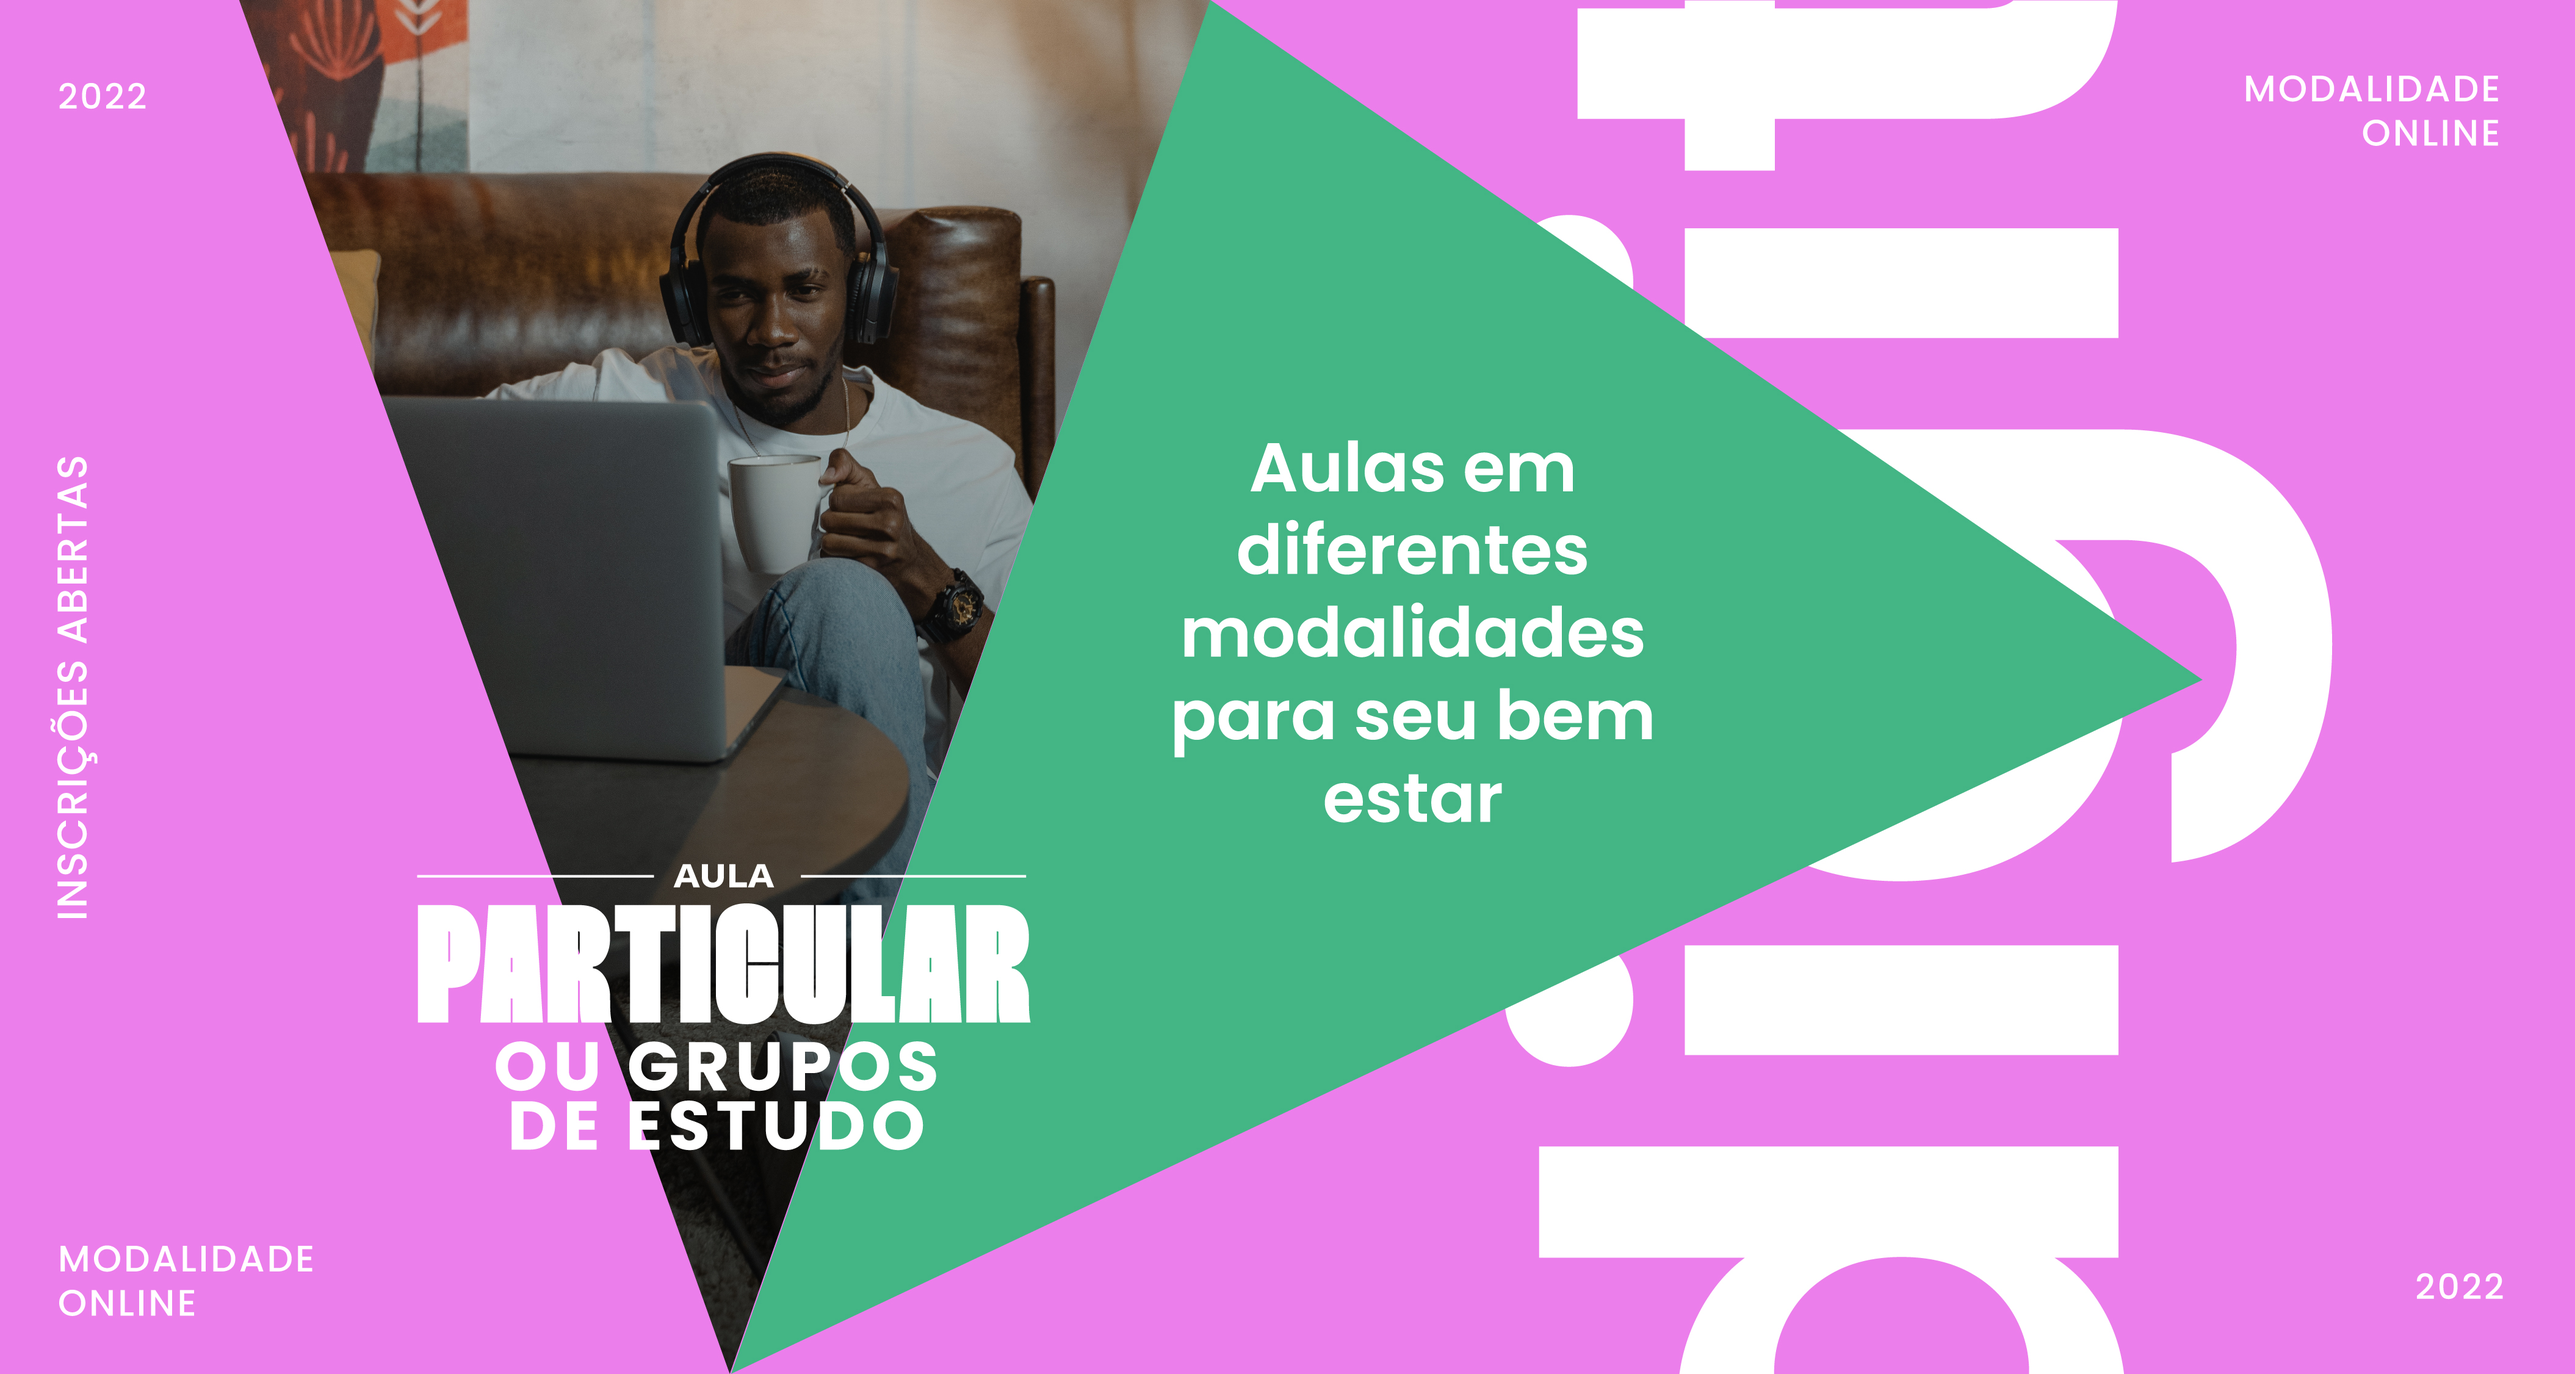
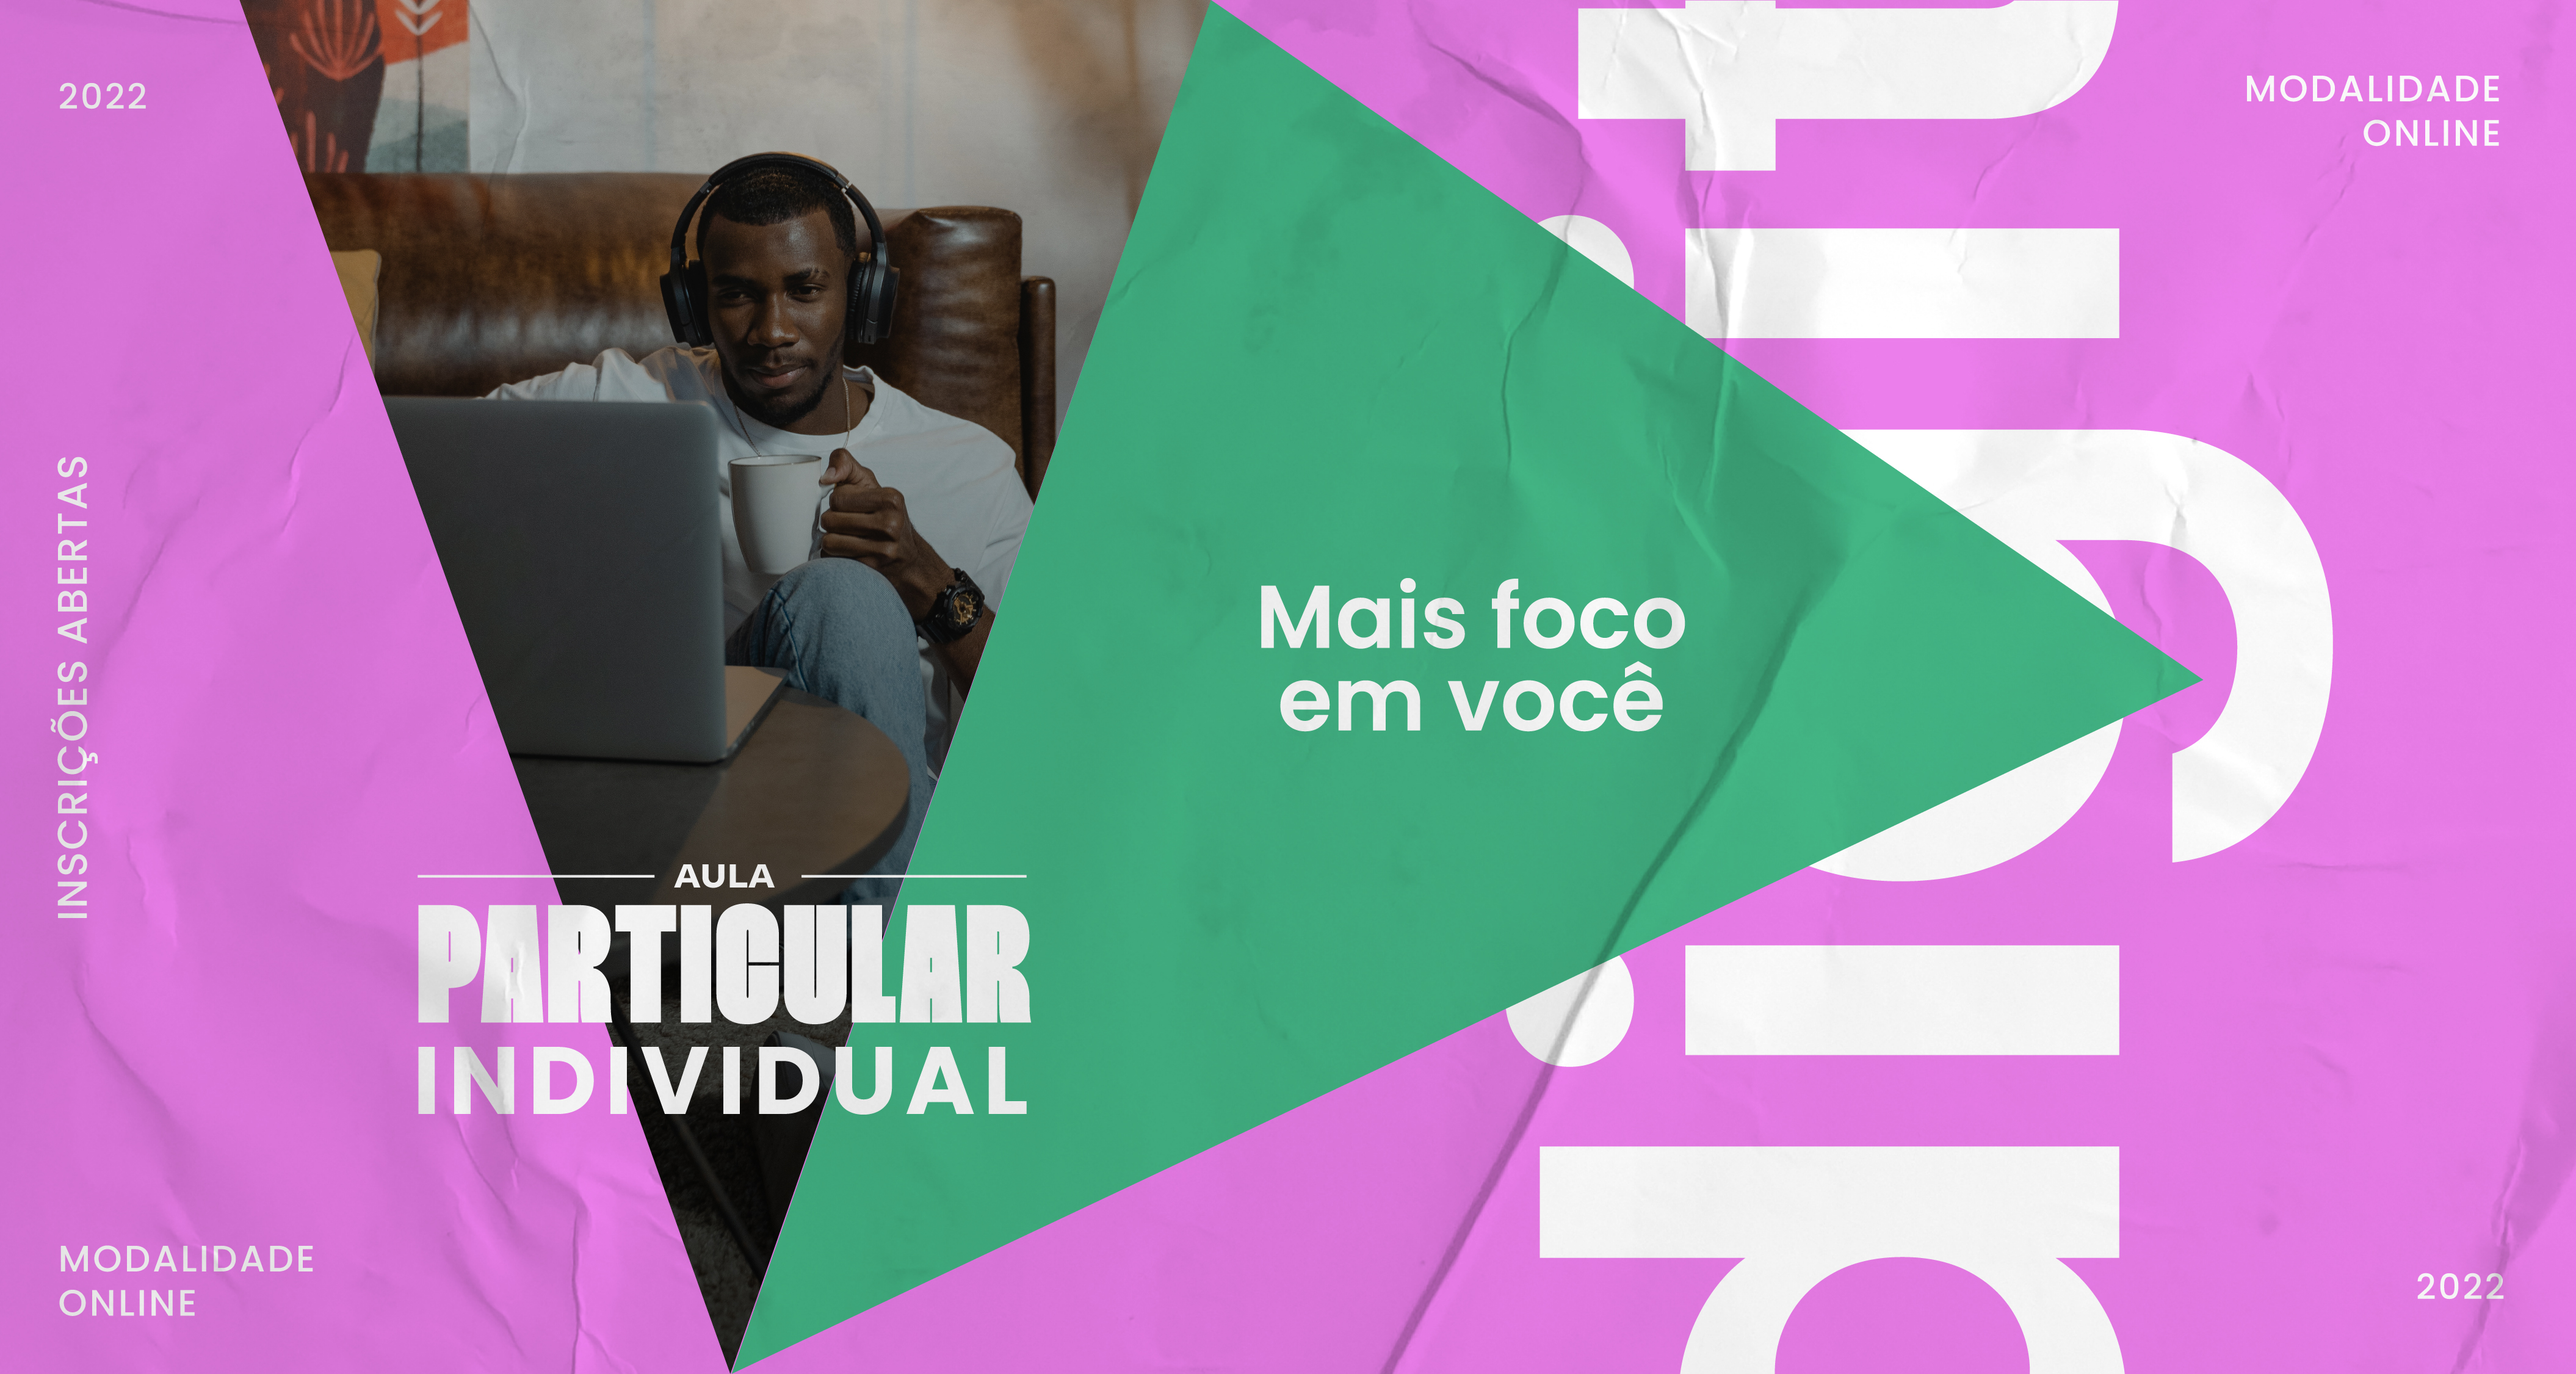
Correções após a adição de um novo curso

diff --git a/aulas_ou_grupos.html b/aulas_ou_grupos.html
@@ -58,7 +58,7 @@
     <!-- Principal description of the course -->
     <div class="course-description">
         <div class="course-description-info">
-            <h1>Aulas particulares ou grupos de inglês </h1>
+            <h1>Aulas particulares</h1>
             <div class="course-description-details">
                 <p>Duração: <span>Conforme necessidade</span></p>
                 <p>Modalidade: <span>Online</span></p>
@@ -82,9 +82,9 @@
             <p class="course-appeal-call-quotes"><i class="fa fa-quote-left"></i></p>
             <p class="container-70vw">
                 Você não acredita nas metodologias convencionais dos cursos de idiomas?<br>
-                Sente que precisa de aulas particulares ou em grupo que fujam da lógica convencional?<br>
+                Sente que precisa de aulas particulares que fujam da lógica convencional?<br>
                 <br>
-                <strong>Então escolha a melhor modalidade para você!</strong>
+                <strong>É só marcar um horário comigo.</strong>
             </p>
         </div>
     </div>
@@ -94,16 +94,13 @@
         <img src="./images/Imagens dos cursos - Aulas 2.jpg">
         <div class="course-aditional-info-text">
             <h2>
-                Como funcionam os grupos <span>de inglês</span>?
+                Como funcionam as aulas<br><span>particulares</span> e individuais?
             </h2>
             <p>
-                Os grupos de inglês tem foco em comunicação, principalmente na fala. Misturando técnicas teatrais com metodologia comunicativa do idioma, os grupos são para quem gostaria de aprender inglês de uma maneira diferente dos cursos oferecidos pelas escolas de idiomas.
+                As aulas particulares funcionam de acordo com a necessidade de cada um.<br>
+                Algumas pessoas tem mais problemas com tempos verbais, outros com gramática e ainda outros com a conversação. Conhecendo melhor e alune, faço uma avaliação específica que guia a construção da minha aula para aqueles problemas específicos que precisamos enfrentar.
             </p>
-            <p> 
-                As aulas são online e gravadas, assim ninguém perde nenhuma aula.
-                Se você quer fazer parte de um novo grupo de aprendizado com uma turma online, você pode garantir a sua vaga preenchendo esse formulário. A turma só será iniciada quando tivermos 8 alunos matriculados.
-            </p>
-            <p><a class="btn btn-green" href="https://my.forms.app/tuanetainbessi/turmas-teachertuane">formulário aqui</a></p>
+            <p><a class="btn btn-green" href="#pricing-section-classes">preços e horários</a></p>
         </div>
     </div>
 
@@ -122,14 +119,14 @@
                 </div>
                 <div class="tab">
                     <input type="checkbox" id="chck2">
-                    <label class="tab-label" for="chck2">Quantas vezes na semana devo fazer as aulas particulares ou os grupos?</label>
+                    <label class="tab-label" for="chck2">Quantas vezes na semana devo fazer as aulas particulares?</label>
                     <div class="tab-content">
                       Apenas uma vez por semana. Esse é o tempo que considero ideal para que tenhamos uma curva de aprendizagem seguida do descanso necessário para fixar o que aprendemos.
                     </div>
                   </div>
                 <div class="tab">
                   <input type="checkbox" id="chck3">
-                  <label class="tab-label" for="chck3">É possível solicitar atestado das duas modalidades?</label>
+                  <label class="tab-label" for="chck3">É possível solicitar atestado?</label>
                   <div class="tab-content">
                     Pode ser requerido atestado de participação a partir de dois meses de aulas caso seja necessário.
                   </div>
@@ -179,16 +176,11 @@
             <div class="pricing-info pricing-grupos">
                 <i class="fa-solid fa-users-line"></i>
                 <h2 class="pricing-header">Grupos de Inglês</h2>
-                <p>O tempo de 1hr e 30 min pode
-                ser dividido em mais de uma aula semanal.</p>
-                <div class="pricing-groups-options">
-                        <span class="pricing-span">1hr/dia</span> <p>R$ 90,00</p>
-                        <span class="pricing-span">1hr/noite</span> <p>R$ 110,00</p>
-                        <span class="pricing-span">1:30 dia</span> <p>R$ 130,00</p>
-                        <span class="pricing-span">1:30/noite</span> <p>R$ 150,00</p>
-                </div>
+                <p>Aulas em grupo são ideais para conversação e desenvolvimento da língua, ainda mais com meu ensino com técnicas de teatro. Se você se sente segure, recomendo fortemente que dê uma olhada na minha modalidade de curso em grupo!</p>
+                <p>Demonstre interesse no nosso formulário para abrirmos novas turmas ou saiba mais na nossa página do curso "English with Theater".</p>
                 <div class="pricing-buttons">
                     <a href="https://my.forms.app/tuanetainbessi/turmas-teachertuane" class="btn btn-green">Formulário</a>
+                    <a href="./english_with_theater.html" class="btn btn-blackline">Saiba Mais</a>
                 </div>
             </div>
         </div>

diff --git a/cursos.html b/cursos.html
@@ -70,24 +70,18 @@
         <section class="courses" id="courses-section">
             <small>minhas opções para você</small>
             <h2>nossos cursos e modalidades</h2>
-            <div class="courses-list">
-                <!-- Desinibição 
+            <div class="courses-list">                    
+                    <!-- English with Theater -->
                     <div class="course-item">
-                        <a href="./desinibição.html">
-                            <img src="./images/curso-desinibição-thumb.jpg" />
-                        </a>
-                        <div class="course-details">
-                            <p>Modalidade: <span>Online</span></p>
-                            <p>Turmas: <span>Abertas</span></p>
+                        <img src="./images/Thumb - English with Theater.jpg" />
+                        <div class="course-info">
+                            <div class="course-details">
+                                <p>Modalidade: <span>Online</span></p>
+                                <p>Turmas: <span>Abertas</span></p>
+                            </div>
+                            <a class="course-title" href="./english_with_theater.html">Curso: English with Theater (mediante inscrição)</a>
                         </div>
-                        <p class="course-title">
-                            <a href="./desinibição.html">
-                                Curso: Desinibição<br>
-                                em Inglês
-                            </a>
-                        </p>
                     </div>
-                -->
                     <!-- Teatro bilingue -->
                     <div class="course-item">
                         <img src="./images/Thumb - Teatro Bilingue.jpg" />
@@ -96,27 +90,22 @@
                                 <p>Modalidade: <span>Presencial</span></p>
                                 <p>Turmas: <span>Abertas</span></p>
                             </div>
-                            <a class="course-title" href="./teatro_bilingue.html">
-                                Curso: Teatro Bilingue para
-                                Crianças e Adolescentes
-                            </a>
+                            <a class="course-title" href="./teatro_bilingue.html">Curso: Teatro Bilingue para Crianças e Adolescentes</a>
                         </div>
                     </div>
-                    <!-- Aulas Particulares e Grupos -->
+                    <!-- Aulas Particulares -->
                     <div class="course-item">
-                        <img src="./images/Thumb - Aulas e Grupos.jpg" />
+                        <img src="./images/Thumb_Aula_Particular.jpg" />
                         <div class="course-info">
                             <div class="course-details">
                                 <p>Modalidade: <span>Online</span></p>
                                 <p>Turmas: <span>Abertas</span></p>
                             </div>
-                            <a class="course-title" href="./aulas_ou_grupos.html">
-                                Aulas Particulares e Grupos de inglês
-                            </a>
+                            <a class="course-title" href="./aulas_ou_grupos.html">Aulas: Aulas Particulares Individuais</a>
                         </div>
                     </div>
                 </div>
-        </section>
+            </section>
 
     <!-- Site footer -->
     <footer class="site-footer">

diff --git a/index.html b/index.html
@@ -133,15 +133,15 @@
                     <a class="course-title" href="./teatro_bilingue.html">Curso: Teatro Bilingue para Crianças e Adolescentes</a>
                 </div>
             </div>
-            <!-- Aulas Particulares e Grupos -->
+            <!-- Aulas Particulares -->
             <div class="course-item">
-                <img src="./images/Thumb - Aulas e Grupos.jpg" />
+                <img src="./images/Thumb_Aula_Particular.jpg" />
                 <div class="course-info">
                     <div class="course-details">
                         <p>Modalidade: <span>Online</span></p>
                         <p>Turmas: <span>Abertas</span></p>
                     </div>
-                    <a class="course-title" href="./aulas_ou_grupos.html">Aulas: Particulares ou Grupos de inglês</a>
+                    <a class="course-title" href="./aulas_ou_grupos.html">Aulas: Aulas Particulares Individuais</a>
                 </div>
             </div>
         </div>
@@ -164,13 +164,13 @@
     </section>
 
 
-    <!-- Testimonials Section -->
+    <!-- Testimonials Section 
         <div class="testimonials-section">
             <div class="container-70vw">
                 <small class="small-phrase-title">testemunhos</small>
                 <h2>o que meus alunes dizem?</h2>
 
-                <!-- Testimonial 1 -->
+   
                 <div class="testimonial-item testimonial-item-visible">
                     <img src="./images/testimonials-matheus.png">
                     <div>
@@ -181,8 +181,7 @@
                         <p>Matheus Cervo - Pesquisador em Comunicação e Desenvolvedor Web</p>
                     </div>
                 </div>
-                
-                <!-- Testimonial 2 -->
+   
                 <div class="testimonial-item">
                     <img src="./images/testimonials-matheus.png">
                     <div>
@@ -193,8 +192,7 @@
                         <p>Matheus Cervo - Pesquisador em Comunicação e Desenvolvedor Web</p>
                     </div>
                 </div>
-                
-                <!-- Testimonial 3 -->
+
                 <div class="testimonial-item">
                     <img src="./images/testimonials-matheus.png">
                     <div>
@@ -205,13 +203,13 @@
                     </div>
                 </div>
 
-                <!-- Carousel Buttons -->
+
                 <div class="carousel-actions">
-                    <button id="carousel-button-prev" aria-label="Previous Slidex"><</button>
+                    <button id="carousel-button-prev" aria-label="Previous Slidex"></button>
                     <button id="carousel-button-next" aria-label="Next Slide">></button>
                 </div>
             </div>
-        </div>
+        </div> -->
         
         <!-- Contact Section-->
         <div class="contact">
